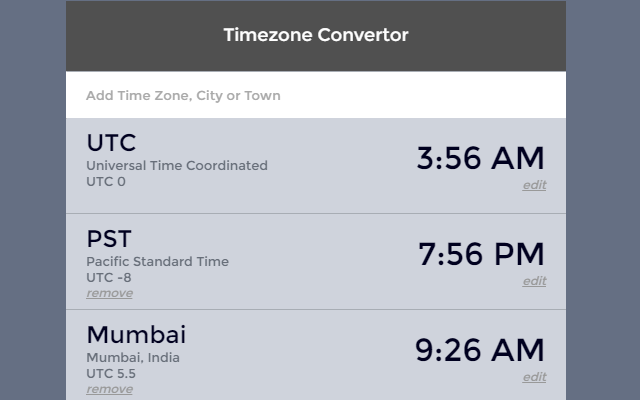
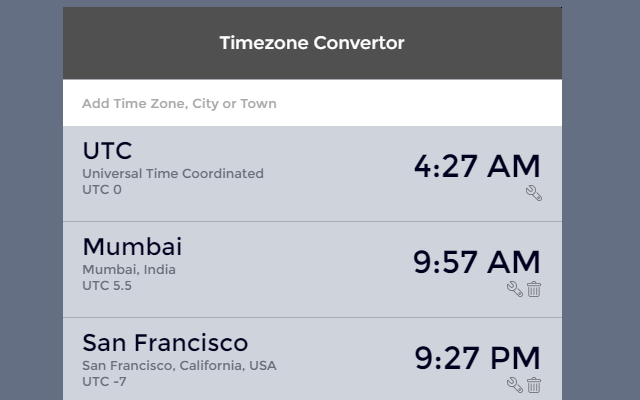
pending commits.

Changed region(s): [[0.0938, 0.0, 0.9062, 1.0], [0.3438, 0.06, 0.6562, 0.12]]

diff --git a/popup.html b/popup.html
@@ -35,7 +35,7 @@
 						</span>
 					</span>
 					<span ng-show="!item.edit || item.edit == false" class="edit" ng-click="edit(item)"><img src="/icons/edit.png" title="edit time ?" /></span>
-					<span ng-click="remove(item);" class="delete" ng-if="$index != 0"><img src="/icons/delete.png" title="remove this timezone ?" /></span>
+					<span ng-show="!item.edit || item.edit == false" ng-click="remove(item);" class="delete" ng-if="$index != 0"><img src="/icons/delete.png" title="remove this timezone ?" /></span>
 					<span ng-show="item.edit == true" class="edit" ng-click="save(item)">save</span>
 					<span ng-show="item.edit == true" class="edit" ng-click="cancel(item)">cancel</span>
 				</span>				
